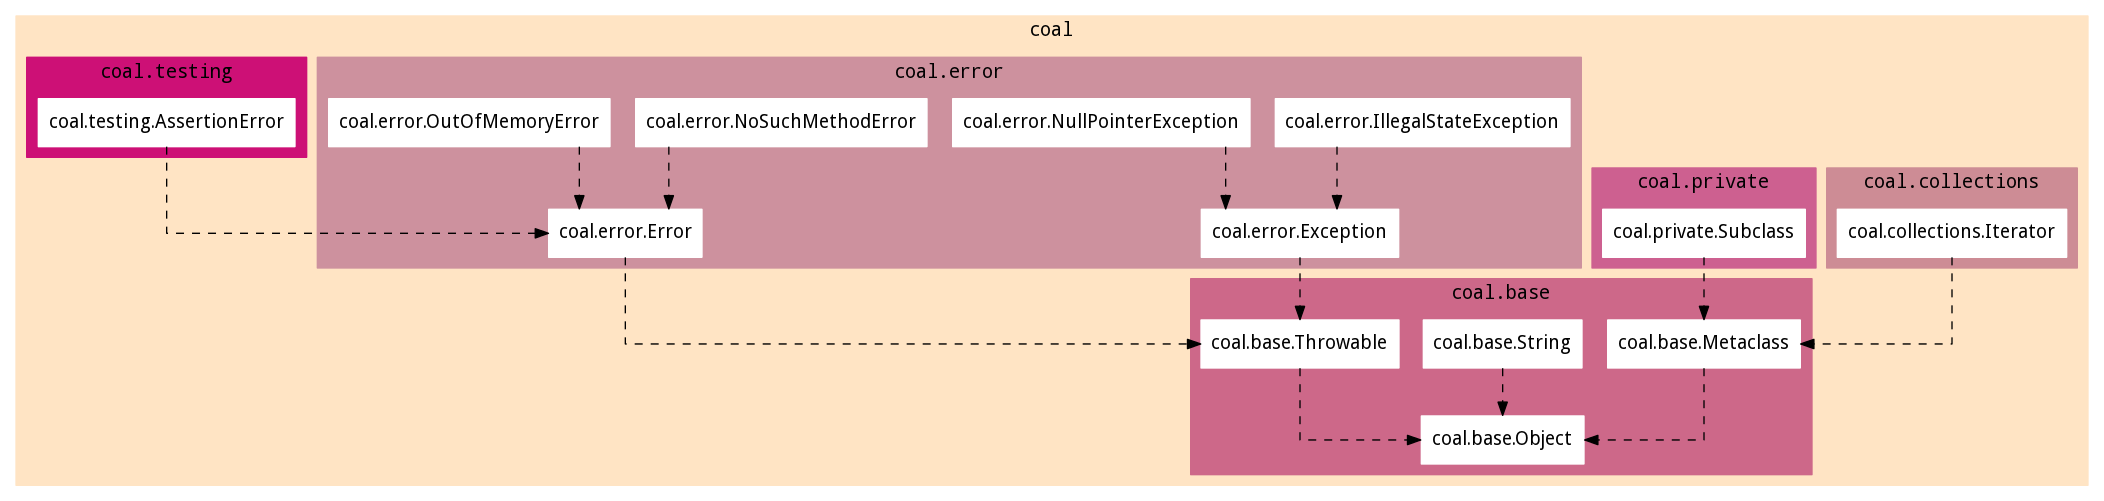
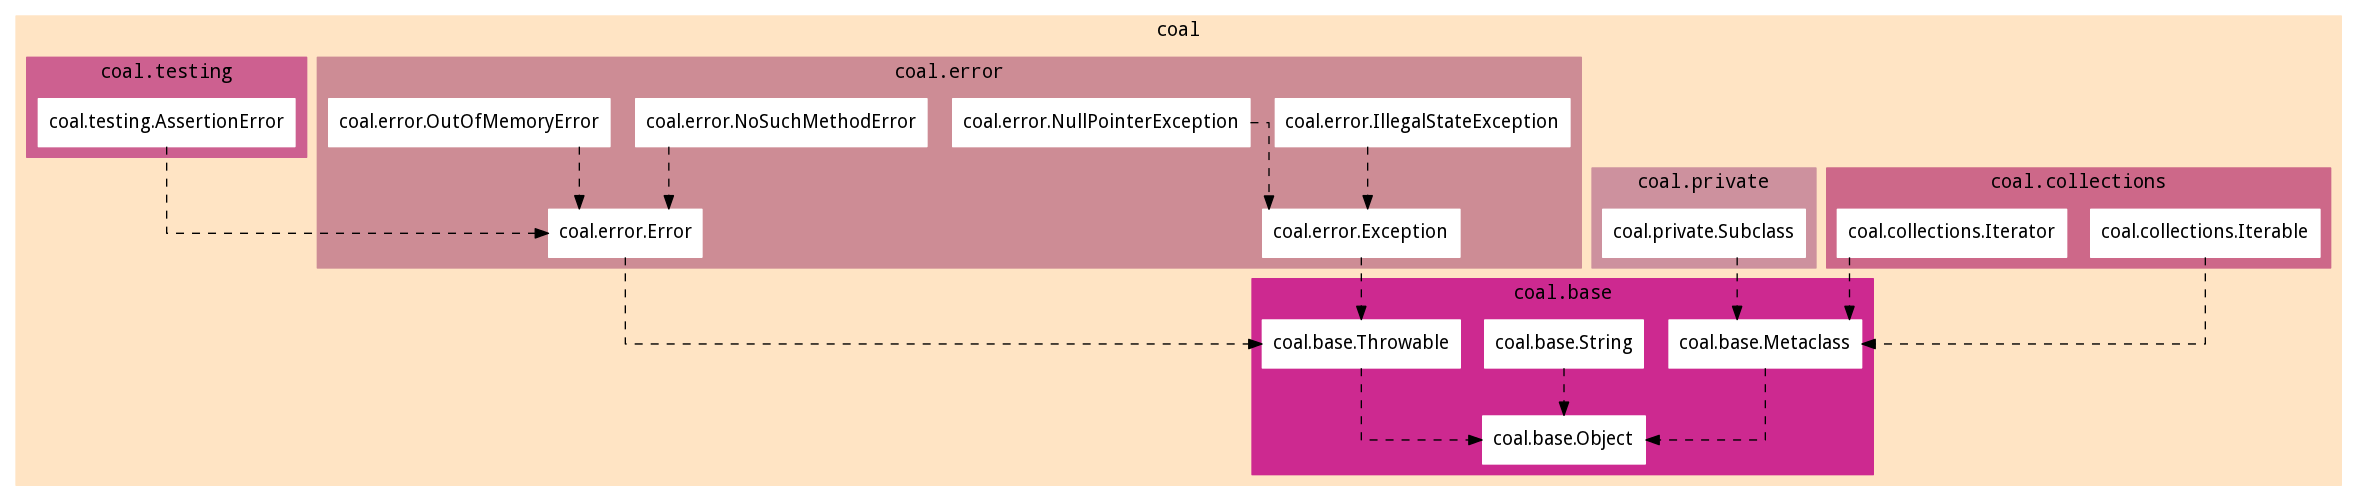
Added a simple iterable metaclass.

diff --git a/coal/collections/Iterable.h b/coal/collections/Iterable.h
@@ -1,0 +1,62 @@
+/*
+ * coal - An object oriented general purpose library for GNU-C
+ * Copyright (C) 2012 Truls Edvard Stokke
+ *
+ * This library is free software; you can redistribute it and/or
+ * modify it under the terms of the GNU Lesser General Public
+ * License as published by the Free Software Foundation; either
+ * version 2.1 of the License, or (at your option) any later version.
+ *
+ * This library is distributed in the hope that it will be useful,
+ * but WITHOUT ANY WARRANTY; without even the implied warranty of
+ * MERCHANTABILITY or FITNESS FOR A PARTICULAR PURPOSE.  See the GNU
+ * Lesser General Public License for more details.
+ *
+ * You should have received a copy of the GNU Lesser General Public
+ * License along with this library; if not, write to the Free Software
+ * Foundation, Inc., 51 Franklin Street, Fifth Floor, Boston, MA  02110-1301  USA
+ */
+
+#ifndef COAL_COLLECTIONS_ITERABLE_H
+#define COAL_COLLECTIONS_ITERABLE_H
+
+/**
+ * coal_collections_Iterable
+ *
+ * Metaclass for iterables.
+ *
+ * @extends coal_base_Metaclass
+ * @constructor takes 11 arguments
+ * @param (const char *) name of class
+ * @param (const class(Metaclass) *) super class
+ * @param (size_t) size of instances of this class in bytes
+ * @param (int (*cmp)(val, val)) pointer to comparator function
+ * @param (var (*constructor)(var, va_list *)) pointer to constructor
+ * @param (var (*destructor)(var)) pointer to destructor
+ * @param (bool (*equals)(val, val)) pointer to equality function
+ * @param (int (*hashCode)(val)) pointer to hash function
+ * @param (var (*toString)(val)) pointer to string representation function
+ * @param (var (*iterator)(val)) pointer to function that returns iterator for the object
+ */
+coal_cfunspec val coal_collections_Iterable (void) coal_funattr_const;
+
+/**
+ * coal_collections_Iterable_iterator
+ *
+ * Returns an iterator for the iterable object.
+ *
+ * @param  (val) iterable
+ * @return (var) iterator
+ */
+coal_cfunspec var coal_collections_Iterable_iterator (val self);
+
+#ifdef COAL_COLLECTIONS_NAMESPACE_POLLUTE
+# define Iterable()           coal_collections_Iterable()
+# define Iterable_iterator(s) coal_collections_Iterable_iterator(s)
+#endif
+
+#ifdef COAL_COLLECTIONS_ITERABLE_NAMESPACE_POLLUTE
+# define iterator(s) coal_collections_Iterable_iterator(s)
+#endif
+
+#endif /* COAL_COLLECTIONS_ITERABLE_H */

diff --git a/coal/collections/Iterable/Iterable.c b/coal/collections/Iterable/Iterable.c
@@ -1,0 +1,65 @@
+/*
+ * coal - An object oriented general purpose library for GNU-C
+ * Copyright (C) 2012 Truls Edvard Stokke
+ *
+ * This library is free software; you can redistribute it and/or
+ * modify it under the terms of the GNU Lesser General Public
+ * License as published by the Free Software Foundation; either
+ * version 2.1 of the License, or (at your option) any later version.
+ *
+ * This library is distributed in the hope that it will be useful,
+ * but WITHOUT ANY WARRANTY; without even the implied warranty of
+ * MERCHANTABILITY or FITNESS FOR A PARTICULAR PURPOSE.  See the GNU
+ * Lesser General Public License for more details.
+ *
+ * You should have received a copy of the GNU Lesser General Public
+ * License along with this library; if not, write to the Free Software
+ * Foundation, Inc., 51 Franklin Street, Fifth Floor, Boston, MA  02110-1301  USA
+ */
+
+#include <coal/base/Metaclass.h>
+
+#include <coal/private/library.h>
+#include <coal/private/virtual_methods.h>
+
+#include <coal/collections/Iterable.h>
+#include <coal/collections/Iterable/Iterable.rep.h>
+
+/* collections.Iterable implements base.Object methods */
+
+var Iterable_constructor (var _self, va_list * args) {
+  const class(Metaclass) * class;
+  class(Iterable) * self = _self;
+
+  class = coal_collections_Iterable();
+  class->super->constructor(_self, args);
+
+  OverrideMethod(self, args, iterator);
+
+  return _self;
+}
+
+/* selector functions */
+
+var coal_collections_Iterable_iterator (val self) {
+  const class(Iterable) * class;
+  class = coal_base_Object_getClass(self);
+
+  CheckAndThrowMissingMethod(class,
+			     coal_collections_Iterable());
+
+  return class->iterator(self);
+}
+
+SETUP_CLASS_DESCRIPTION(coal_collections_Iterable,
+			coal_base_Metaclass(),
+			LIBRARY_STR ".collections.Iterable",
+			coal_base_Metaclass(),
+			sizeof(class(Iterable)),
+			/* Object */
+			INHERIT_METHOD,       /* cmp */
+			Iterable_constructor,
+			INHERIT_METHOD,       /* destructor */
+			INHERIT_METHOD,       /* equals */
+			INHERIT_METHOD,       /* hashCode */
+			INHERIT_METHOD);      /* toString */

diff --git a/coal/collections/Iterable/Iterable.rep.h b/coal/collections/Iterable/Iterable.rep.h
@@ -1,0 +1,31 @@
+/*
+ * coal - An object oriented general purpose library for GNU-C
+ * Copyright (C) 2012 Truls Edvard Stokke
+ *
+ * This library is free software; you can redistribute it and/or
+ * modify it under the terms of the GNU Lesser General Public
+ * License as published by the Free Software Foundation; either
+ * version 2.1 of the License, or (at your option) any later version.
+ *
+ * This library is distributed in the hope that it will be useful,
+ * but WITHOUT ANY WARRANTY; without even the implied warranty of
+ * MERCHANTABILITY or FITNESS FOR A PARTICULAR PURPOSE.  See the GNU
+ * Lesser General Public License for more details.
+ *
+ * You should have received a copy of the GNU Lesser General Public
+ * License along with this library; if not, write to the Free Software
+ * Foundation, Inc., 51 Franklin Street, Fifth Floor, Boston, MA  02110-1301  USA
+ */
+
+#ifndef COAL_COLLECTIONS_ITERABLE_REP_H
+#define COAL_COLLECTIONS_ITERABLE_REP_H
+
+#include <coal/base/Metaclass/Metaclass.rep.h>
+
+class (Iterable) {
+  extends(Metaclass);
+
+  var (*iterator)(val self);
+};
+
+#endif /* COAL_COLLECTIONS_ITERABLE_REP_H */
